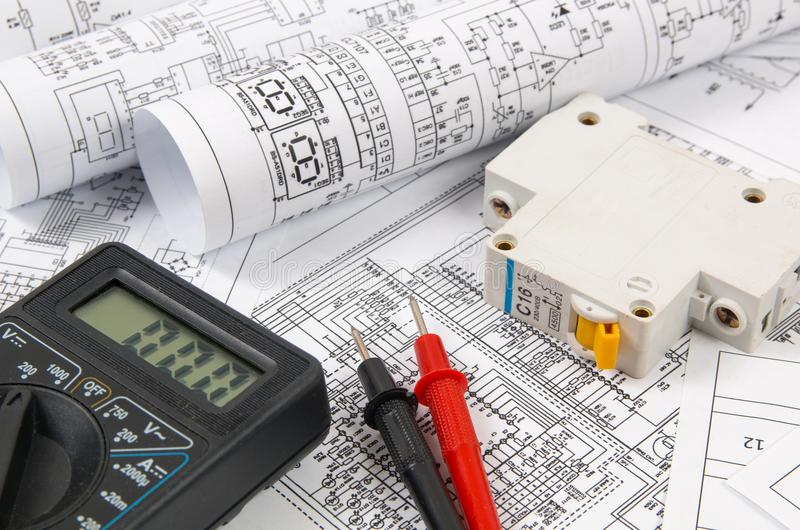
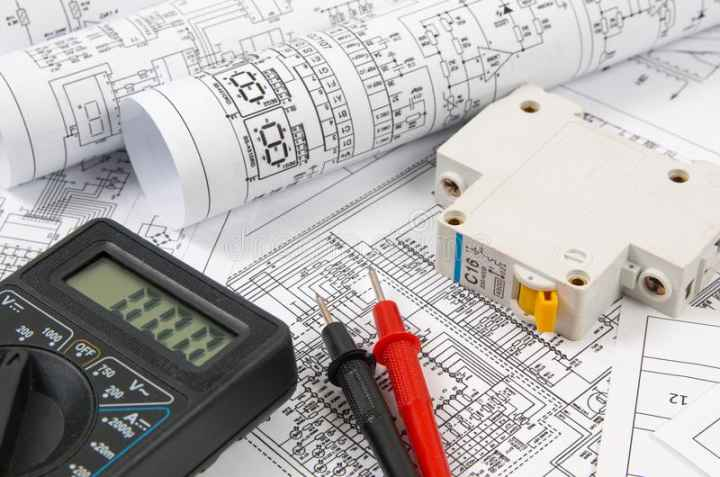
reduced imgs sizes

diff --git a/src/components/HeroSection.css b/src/components/HeroSection.css
@@ -1,6 +1,6 @@
 
   .hero-container {
-    background: url('../images/unibg2Resized2.jpg') center center/cover no-repeat;
+    background: url('../images/unibg2Resized.jpg') center center/cover no-repeat;
     height: 95vh;
     width: 100%;
     display: flex;
